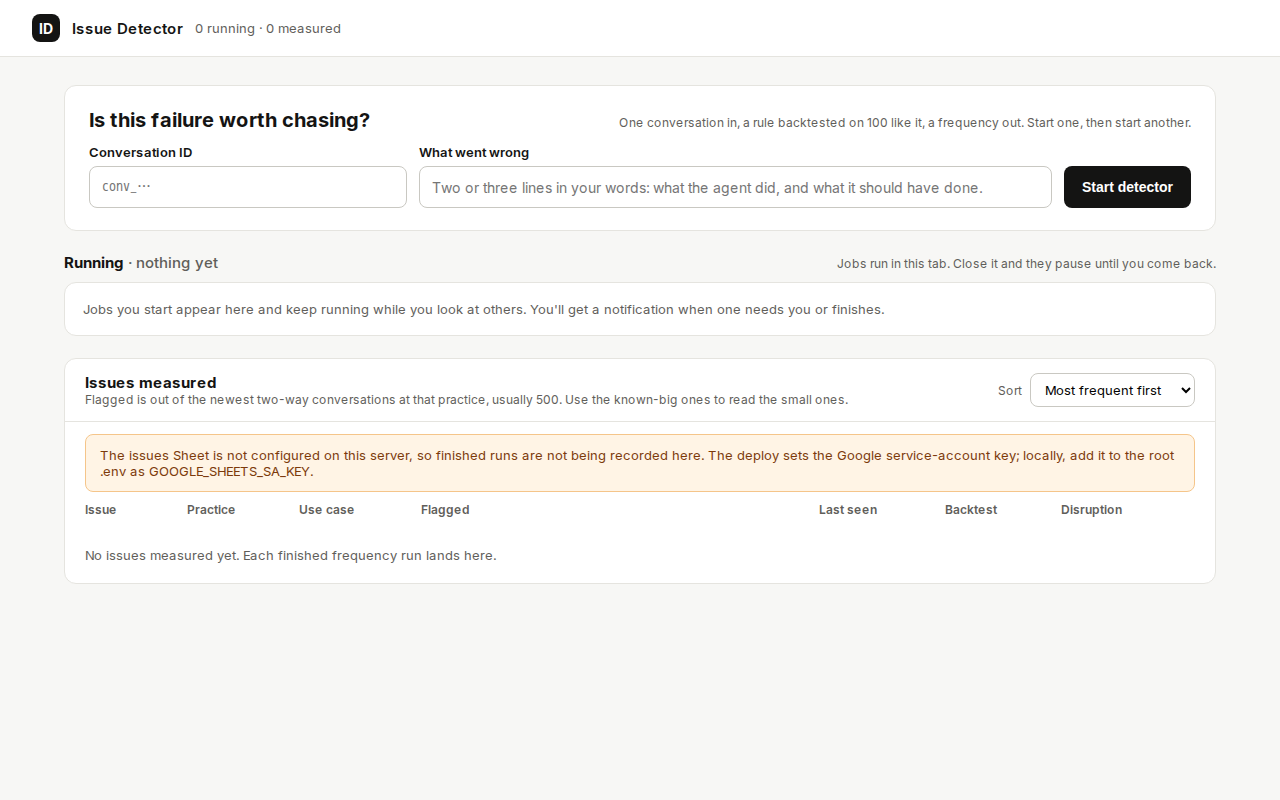
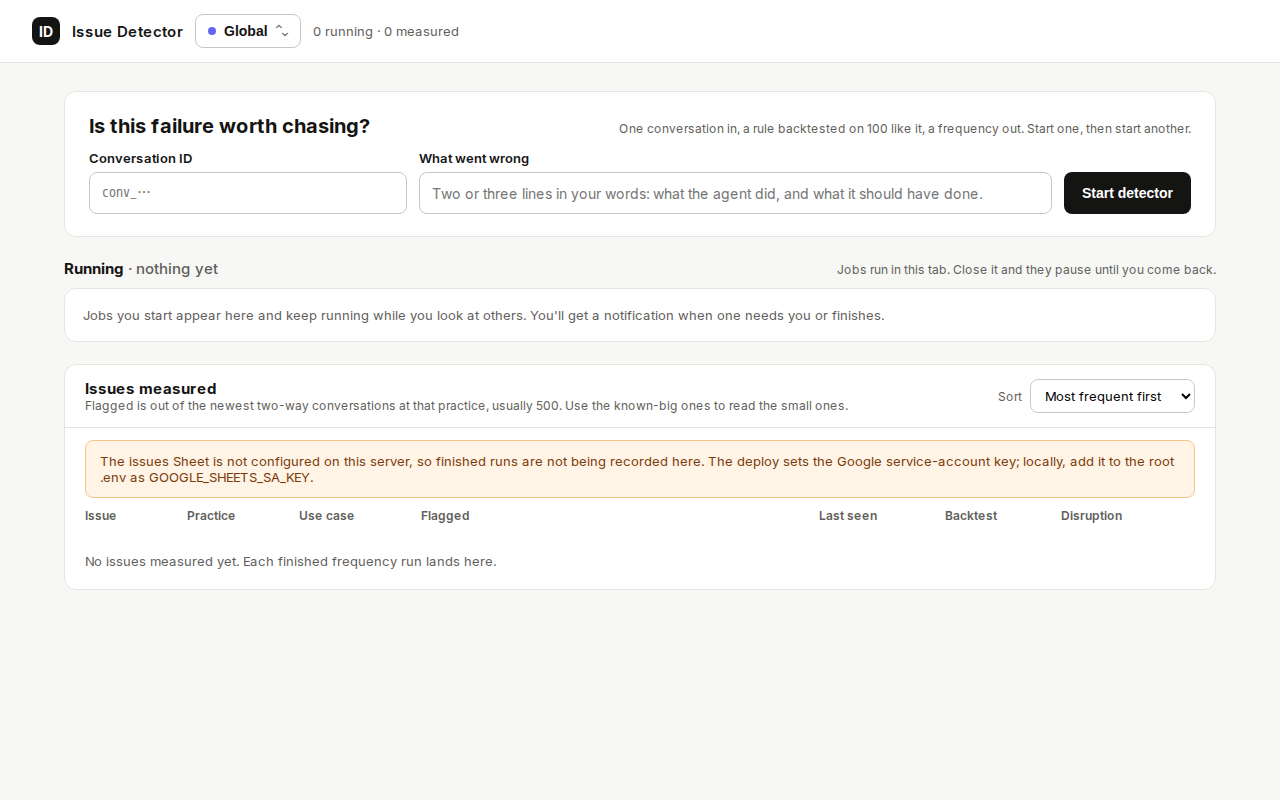
deploy: petsinc/org-apps@18fa4d11859853bc410e7b8a8bb10cc140f42128

diff --git a/issue-detector/index.html b/issue-detector/index.html
@@ -3,11 +3,11 @@
 <head>
 <meta charset="utf-8">
 <meta name="viewport" content="width=device-width, initial-scale=1">
-<title>issue-detector — visual +0 ~0 -0</title>
+<title>issue-detector — visual +0 ~1 -0</title>
 <style>body{font-family:system-ui,sans-serif;margin:2rem;color:#222}section.shot{margin-bottom:2.5rem}section.shot[hidden]{display:none}h2{margin-bottom:.5rem}.toggles{display:flex;flex-wrap:wrap;gap:1rem;margin:0 0 1.5rem;position:sticky;top:0;background:#fff;padding:.75rem 0;z-index:1}.toggle{display:flex;align-items:center;gap:.4rem}.dim-label{font-size:.8rem;color:#555}.toggle button{font:inherit;font-size:.8rem;padding:.15rem .6rem;border:1px solid #bbb;background:#f6f6f6;border-radius:999px;cursor:pointer}.toggle button.active{background:#222;color:#fff;border-color:#222}.variants img{max-width:100%;height:auto;border:1px solid #ddd;border-radius:4px}.variant[hidden]{display:none}</style>
 </head>
 <body>
-<h1>issue-detector — visual +0 ~0 -0</h1>
+<h1>issue-detector — visual +0 ~1 -0</h1>
 <section class="shot"><h2>issue-detector/app</h2>
 <div class="variants"><img class="variant" data-variant="" loading="lazy" src="issue-detector/app.png" alt="issue-detector/app"></div></section>
 <section class="shot"><h2>issue-detector/login</h2>
